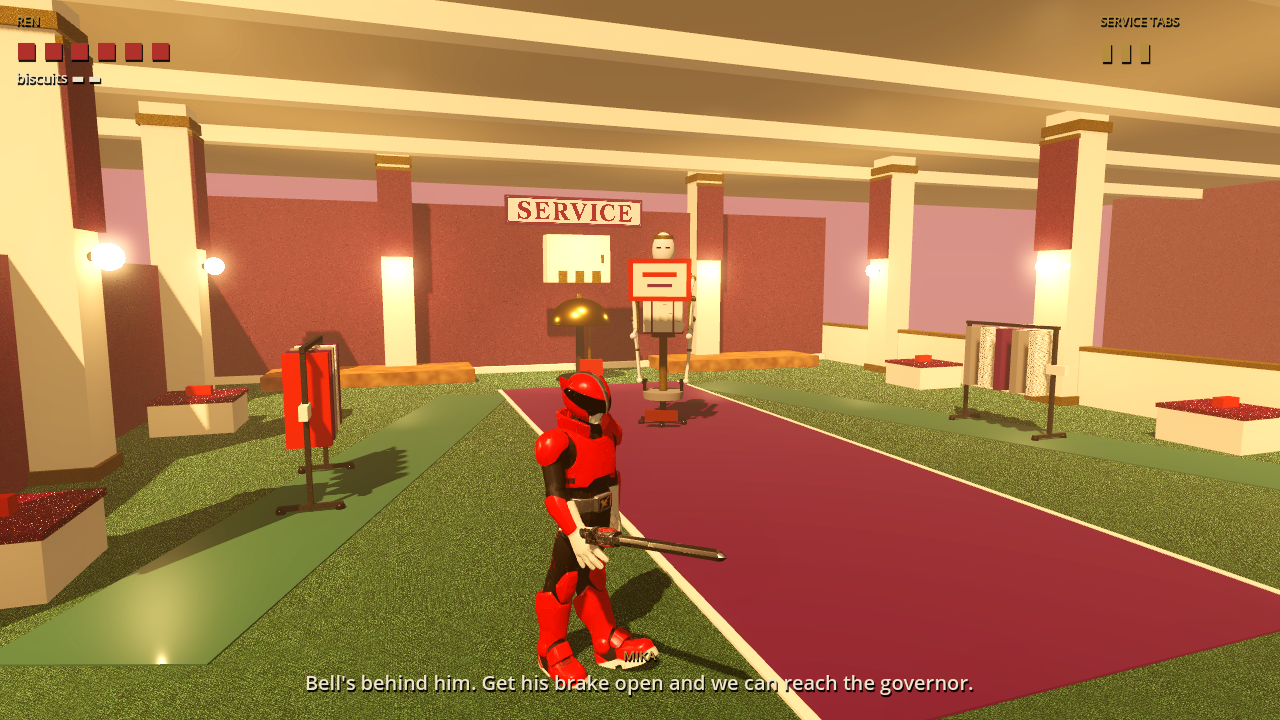
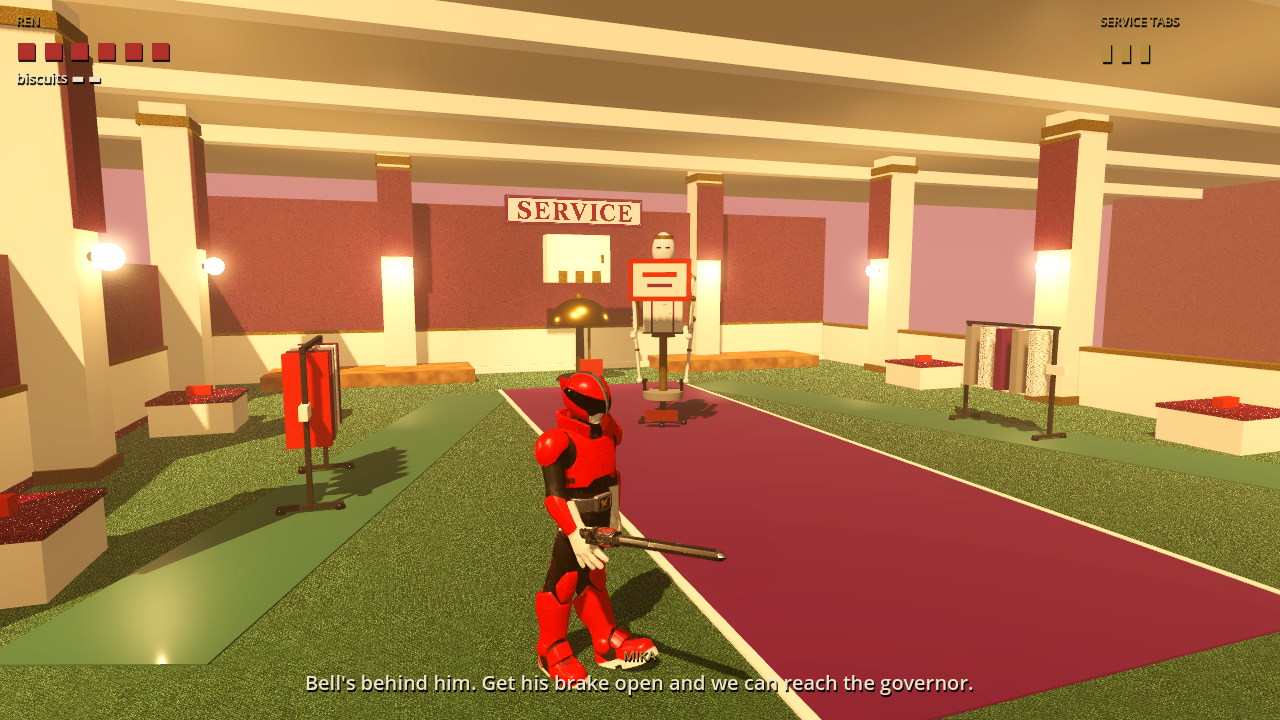
Room polish: lane-choosing boss AI, attendant behaviour, tinted texture variants, wainscot, columns, spotlight
Claude-Session: https://claude.ai/code/session_01KfZCJb84i5HsivtuekTRNo

Changed region(s): [[0.0625, 0.4278, 0.6562, 0.6111], [0.0, 0.5194, 0.0312, 0.7028]]

diff --git a/afterbell-godot/tools/tint_texture.py b/afterbell-godot/tools/tint_texture.py
@@ -1,0 +1,37 @@
+#!/usr/bin/env python3
+"""Make a colour variant of an existing texture set, keeping its surface detail.
+
+    python3 tools/tint_texture.py SOURCE NEW_NAME --color "#5b2a4a" [--strength 1.0]
+
+Recolours assets/textures/SOURCE/albedo.png toward --color while keeping its light and dark
+variation, and copies the normal and roughness maps. One AI texture becomes many materials.
+"""
+import argparse
+import os
+import shutil
+
+import numpy as np
+from PIL import Image
+
+ROOT = os.path.join(os.path.dirname(__file__), "..", "assets", "textures")
+
+p = argparse.ArgumentParser()
+p.add_argument("source")
+p.add_argument("name")
+p.add_argument("--color", required=True)
+p.add_argument("--strength", type=float, default=1.0)
+args = p.parse_args()
+
+src = os.path.join(ROOT, args.source)
+dst = os.path.join(ROOT, args.name)
+os.makedirs(dst, exist_ok=True)
+a = np.asarray(Image.open(os.path.join(src, "albedo.png")).convert("RGB")).astype(float) / 255.0
+lum = a.mean(axis=2, keepdims=True)
+detail = lum / max(lum.mean(), 1e-3)                   # 1.0 = average brightness
+target = np.array([int(args.color.lstrip("#")[i:i + 2], 16) / 255.0 for i in (0, 2, 4)])
+tinted = np.clip(detail * target, 0, 1)
+out = a * (1 - args.strength) + tinted * args.strength
+Image.fromarray((out * 255).astype(np.uint8)).save(os.path.join(dst, "albedo.png"))
+for f in ("normal.png", "roughness.png"):
+    shutil.copy(os.path.join(src, f), os.path.join(dst, f))
+print(f"{args.name}: {args.source} tinted {args.color}")
